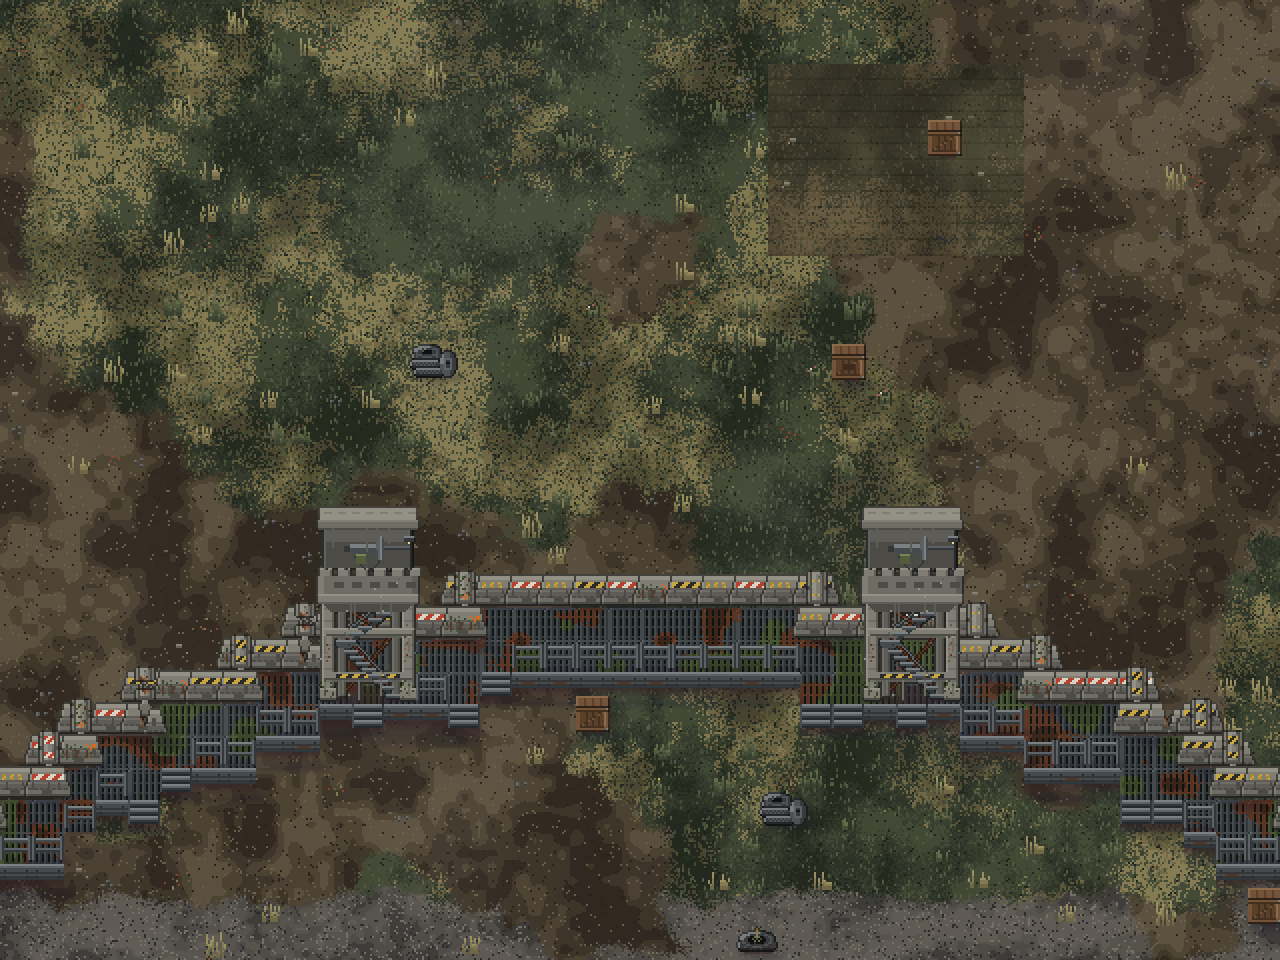
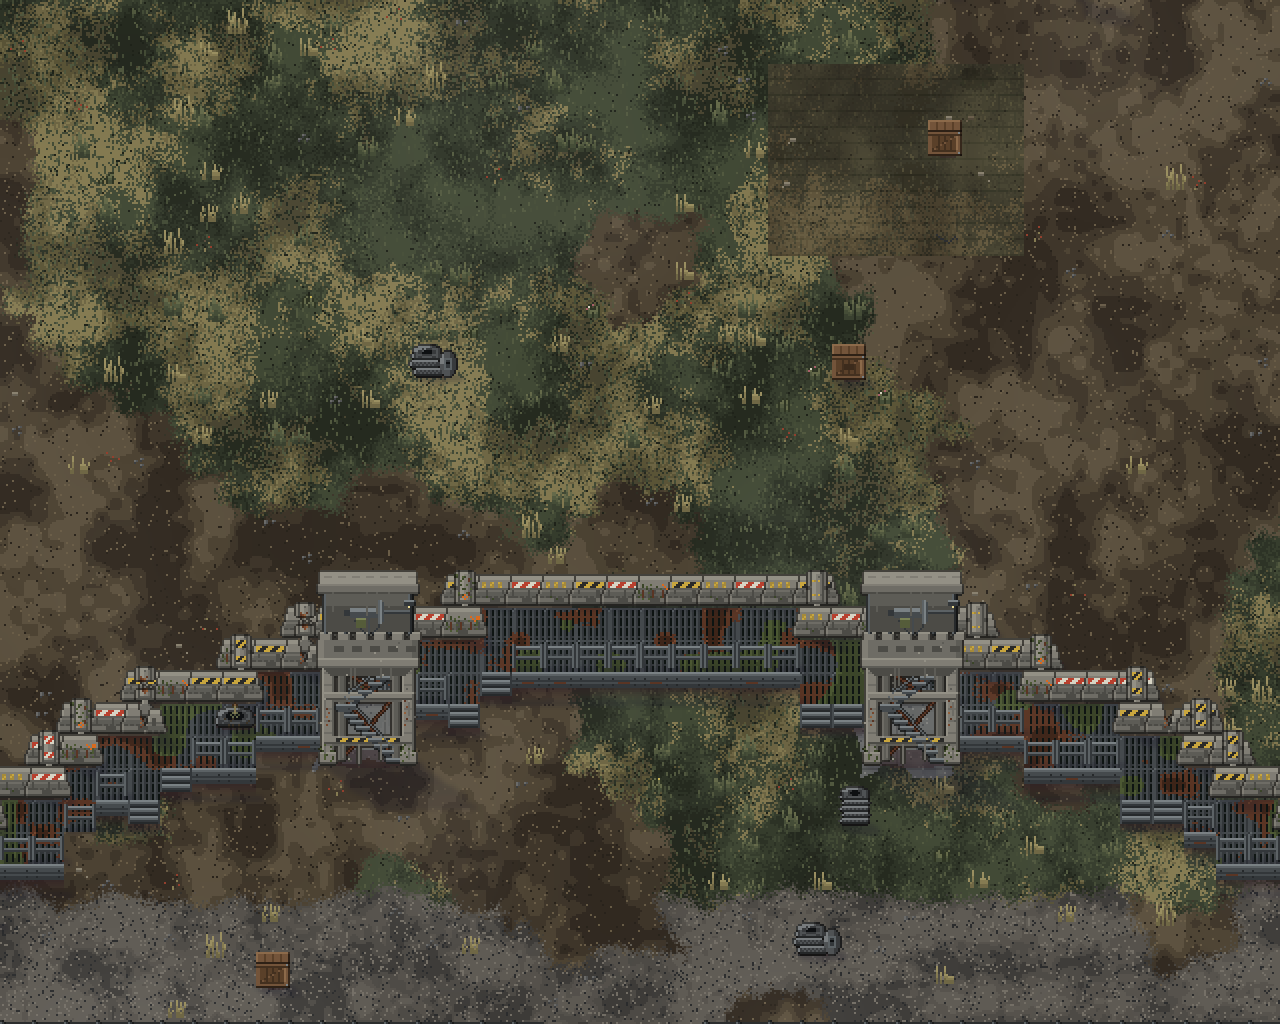
Move Barrier watchtowers off the catwalk into the yard; tower guns fire over the wall
Claude-Session: https://claude.ai/code/session_01Jpd5tdDJTR7BVueAYV1KDM

diff --git a/Assets/Scripts/GameCore/Emplacement.cs b/Assets/Scripts/GameCore/Emplacement.cs
@@ -1,7 +1,7 @@
 // The Barrier's two concrete watchtowers and their machine guns (Yan, 2026-11-18: "2 raised concrete watchtowers with the machineguns" ... "heavy machineguns on tripods (not lootable, only usable)").
-// Each tower (Barrier.TowerCols; the map puts a 3x2 block of "part" tiles with the tower prop on the deck, and ONE open tile in it, the gun nook, right behind the barrier) has a gun:
+// Each tower (Barrier.TowerCols; the map puts a 3x2 block of "part" tiles with the tower prop in the yard right behind the deck - NOT on the catwalk - and the gun nook is its north-middle tile) has a gun:
 //  - E on the steps under the tower (its south face): you climb in. You stand in the nook (it can be reached no other way), your legs are locked (no walking, sprinting or diving), your own gun is put away
-//    and a belt-fed machine gun (a Corvan LMG, 200-round belt) is in your hands; mouse aims, left click fires like any gun. You fire over the barrier from the nook (the shooter-next-to-cover rule).
+//    and a belt-fed machine gun (a Corvan LMG, 200-round belt) is in your hands; mouse aims, left click fires like any gun. You fire over the barrier from the nook: a tower gun is high above it, so the wall never stops your rounds (Ballistics.Trace).
 //  - The belt swaps by itself when it runs dry (no reload) from the tower's box: 900 rounds, refilled 12 a second while nobody is on it. The gun is part of the tower: not an item, never lootable.
 //  - E again, going down, dying, or leaving the map: you step out onto the steps and your own gun comes back. A save puts everyone off first (Save -> ReleaseAll): nobody is ever saved holding it.
 //  - Co-op: one gunner per tower, any player can man either.
@@ -26,7 +26,7 @@ namespace GameCore
         [RuntimeInitializeOnLoadMethod(RuntimeInitializeLoadType.SubsystemRegistration)]
         public static void Reset() { Mounted.Clear(); _guns = null; }
 
-        public static List<Gun> Guns => _guns ?? (_guns = Barrier.TowerCols().Select(tx => new Gun { Tx = tx, NookY = Barrier.BottomY(tx) + 1, StepsY = Barrier.BottomY(tx) + 3 }).ToList());
+        public static List<Gun> Guns => _guns ?? (_guns = Barrier.TowerCols().Select(tx => new Gun { Tx = tx, NookY = Barrier.BottomY(tx) + 3, StepsY = Barrier.BottomY(tx) + 5 }).ToList());
 
         public static bool IsMounted(Player p) => p != null && Mounted.ContainsKey(p);
         public static Gun GunOf(Player p) => Mounted.TryGetValue(p, out var h) ? h.G : null;

diff --git a/Assets/Scripts/GameCore/TierMaps.cs b/Assets/Scripts/GameCore/TierMaps.cs
@@ -1090,17 +1090,15 @@ namespace GameCore
             for (int bx = Barrier.X0; bx <= Barrier.X1; bx++)
             {
                 int bot = Barrier.BottomY(bx);
-                bool towerStep = System.Array.IndexOf(towers, bx) >= 0, towerBody = System.Array.Exists(towers, tc => System.Math.Abs(tc - bx) <= 1);
-                if (Barrier.StairCols.Contains(bx) || towerStep) c.Deco(bx, bot + 3, "deck_steps");
-                else { c.Deco(bx, bot + 3, "deck_face"); if (!towerBody) c.Deco(bx, bot + 2, "deck_rail"); }
+                bool towerBody = System.Array.Exists(towers, tc => System.Math.Abs(tc - bx) <= 1);
+                if (Barrier.StairCols.Contains(bx)) c.Deco(bx, bot + 3, "deck_steps");
+                else { if (!towerBody) c.Deco(bx, bot + 3, "deck_face"); c.Deco(bx, bot + 2, "deck_rail"); }
             }
-            foreach (int tc in towers)                                                  // a concrete watchtower: a 3x2 block on the deck with one open tile, the gun nook, behind the barrier (Emplacement.cs)
+            foreach (int tc in towers)                                                  // a concrete watchtower in the yard right behind the deck (not on the catwalk): a 3x2 block, its north-middle tile the gun nook (Emplacement.cs)
             {
                 int bot = Barrier.BottomY(tc);
-                for (int dx = -1; dx <= 1; dx++) c.Put(tc + dx, bot + 2, Solid, "part");
-                c.Put(tc - 1, bot + 1, Solid, "part").Put(tc + 1, bot + 1, Solid, "part");
-                c.Put(tc, bot + 1, Empty);
-                c.Put(tc, bot + 2, Solid, "tower_conc");                                // the one tile that draws the prop
+                for (int dx = -1; dx <= 1; dx++) { c.Put(tc + dx, bot + 3, Solid, "part"); c.Put(tc + dx, bot + 4, Solid, "part"); c.Paint(tc + dx, bot + 3, 1, 2, Concrete); }
+                c.Put(tc, bot + 4, Solid, "tower_conc");                                // the one tile that draws the prop
             }
             for (int ty = 88; ty <= 119; ty++) for (int tx = 129; tx <= 183; tx++)       // clear the trees, brush and logs of the field in front of the barrier and the yard behind it
                 if (!Barrier.Cells.Contains((tx, ty)) && c.Get(tx, ty) != Empty && c.LookAt(tx, ty) != "part" && c.LookAt(tx, ty) != "tower_conc") c.Put(tx, ty, Empty);

diff --git a/Tools/compile_check/test/Program.cs b/Tools/compile_check/test/Program.cs
@@ -2516,6 +2516,9 @@ static class Program {
       var tg = Emplacement.Guns[0]; var own = p.EquippedWeapon; p.X = tg.Tx; p.Y = tg.StepsY; p.Hp = p.MaxHp;
       Emplacement.TryInteract(p);
       Check(Emplacement.IsMounted(p) && p.X == tg.Tx && p.Y == tg.NookY && p.EquippedWeapon != null && p.EquippedWeapon.Db != null && p.EquippedWeapon.Db.MagCapacity == Emplacement.Belt && Emplacement.LiftOf(p) > 0f, "Machine gun: E at the tower's steps: you are in the nook with a 200-round belt gun, drawn up on the platform");
+      { var tfoe = new HumanEnemy("Fanatic", tg.Tx, Barrier.TopY(tg.Tx) - 6, "Obelisk", "Experienced", null, null); var (gx, gy) = Ballistics.Pos(p); var (ex, ey) = Ballistics.Pos(tfoe); float gl = (float)Math.Sqrt((ex - gx) * (ex - gx) + (ey - gy) * (ey - gy));
+        var th = Ballistics.Trace(p, gx, gy, (ex - gx) / gl, (ey - gy) / gl, 40f, 0.8f, new ICombatant[] { tfoe });
+        Check(!th.Cover && th.Unit == tfoe, "Machine gun: from the tower the rounds go over the barrier from any distance"); }
       p.EquippedWeapon.CurrentMagazine = 0; float box0 = tg.Box; Emplacement.Tick(0.1f);
       Check(p.EquippedWeapon.CurrentMagazine == Emplacement.Belt && tg.Box < box0, "Machine gun: the belt swaps by itself from the tower's box");
       Check(Emplacement.GunOf(p) == tg && Emplacement.Guns[1].By == null, "Machine gun: one gunner to a gun");

diff --git a/Assets/Scripts/GameCore/Ballistics.cs b/Assets/Scripts/GameCore/Ballistics.cs
@@ -137,6 +137,7 @@ namespace GameCore
                     if (TerrainMap.CoverAcAt(tx, ty) > 0 && h > LowCover) continue;   // a window frame: over the sill
                     stop = t; hit.Wall = true; hit.CoverX = tx; hit.CoverY = ty; break;
                 }
+                if (shooter is Player gp && Barrier.IsWall(tx, ty) && Emplacement.IsMounted(gp)) continue;   // a tower gun fires from high above the Barrier
                 int ac = TerrainMap.CoverAcAt(tx, ty);
                 if (ac <= 0 || shooter != null && System.Math.Abs(tx - shooter.X) <= 1 && System.Math.Abs(ty - shooter.Y) <= 1) continue;   // open ground, or cover right next to the shooter: fired over
                 float top = ac >= 3 ? HighCover : ac >= 2 ? LowCover : LightCover;

diff --git a/ArtSource/WORK_LOG.md b/ArtSource/WORK_LOG.md
@@ -6570,3 +6570,8 @@ Yan: "yes" (to the tripod guns) and "2 raised concrete watchtowers with the mach
 ## Story 8g (2026-11-18): the concrete watchtower redrawn from references
 
 Yan: "The concrete Watch Towers do not look good, they dont match the rest of the sprites, look for references". Mine was a flat grey block with a tiny gun. References used: the library's `ArtSource/refs/watchtower` (the prison guard tower on a column, the square towers) and `refs/bld_bunker` (board-marked concrete, stains, rebar); the web search returned only text (East German B-Turm, Soviet border observation posts: no photos I could view), so the build follows the timber tower already in the game (`props.watchtower`: same size 52x102, same 3/4 view, the same piers + bracing + zig-zag stair + railed deck + roof) in concrete and steel: four piers with formwork seams and footings (moss at the base, rust and chips with rebar), two ring beams (one with the barrier's hazard stripes), steel cross-bracing, a steel zig-zag stair with a landing, a platform slab with a chamfered underside and a notched parapet with firing slits, a flat roof slab on posts with a floodlight, and under it a tripod machine gun behind a shield with an ammo box. `props_barrier.py` -> repacked atlas (the other 4,567 sprites unchanged). Side by side with the timber tower: `maps/renders/tier4/tower_vs_wooden_tower.png`; in the map: `barrier_towers.png`. Gunner lift 2.5 tiles (the platform floor). Harness green; not Unity.
+
+### Batch 8h (2026-11-18): watchtowers moved off the catwalk
+- Yan: "Looks better but they're in the catwalk". The two concrete towers now stand in the yard right behind the deck (3x2 "part" block at BottomY+3..+4, prop on the north-middle tile), so the whole catwalk is free to walk. The gun nook is that north-middle tile (`Emplacement.NookY = BottomY+3`, steps at +5); you reach it only by mounting (E).
+- A mounted gunner's rounds pass over Barrier wall tiles (`Ballistics.Trace`, tower guns fire from high above); new harness check. Harness: ALL CHECKS PASSED.
+- Not checked: Unity (nothing has been run there); the still is a map render, no units. The tall tower art overlaps the deck visually because it is tall; its footprint is behind the deck.
